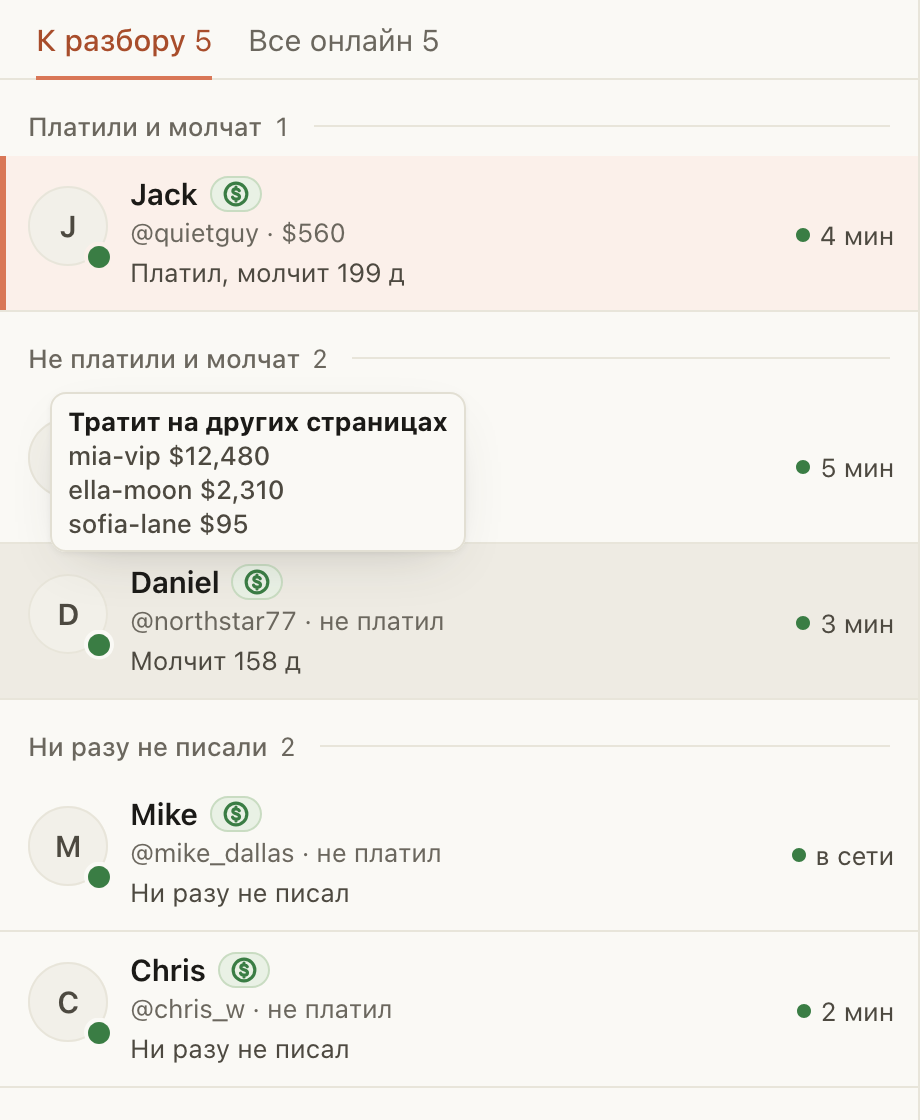
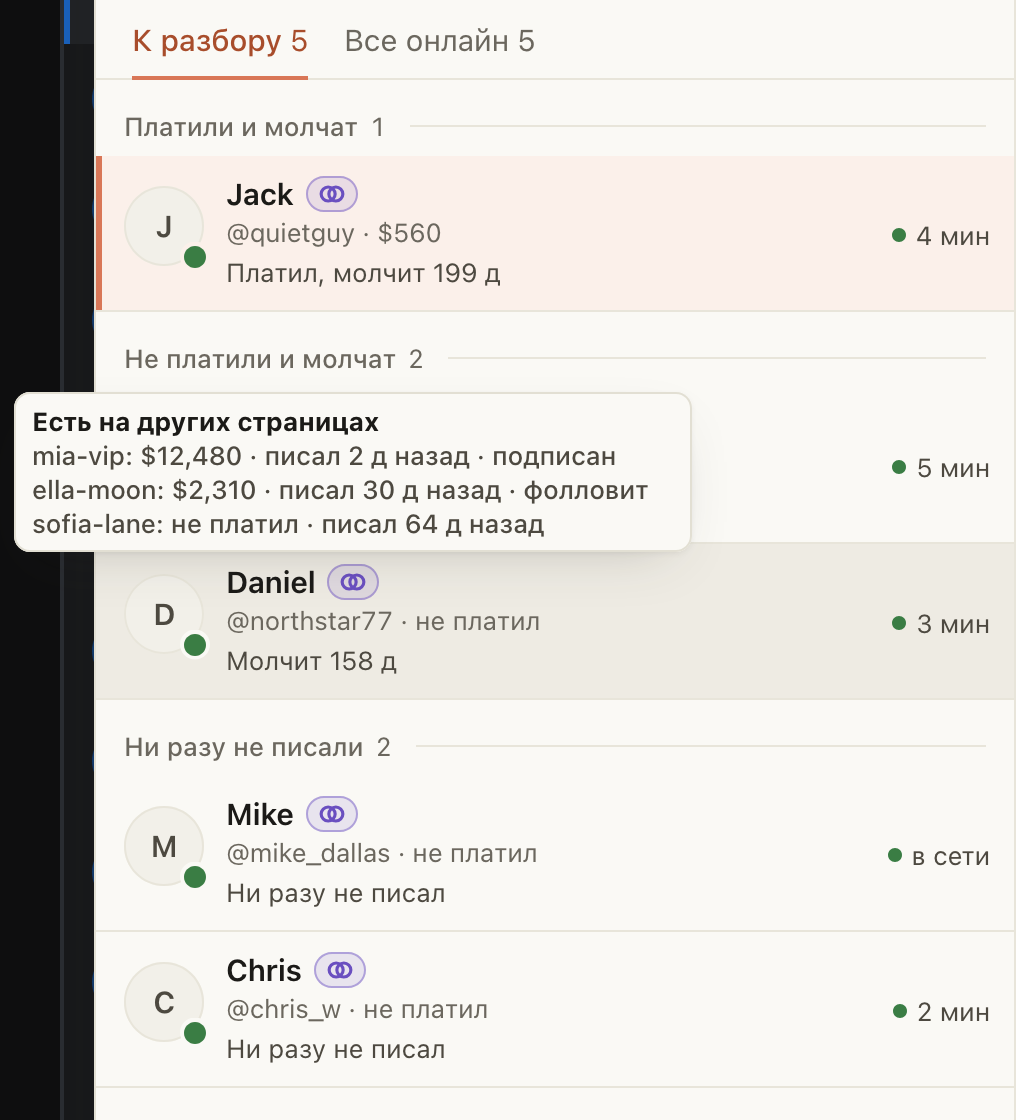
feat(online): one overlap mark on a fan, the tooltip tells each other page
The mark no longer stands for money only: two overlapping circles beside the name for a fan who paid on another page of
the agency or wrote there himself within 90 days (hub `otherPages`). The tooltip and the header's card give each page:
the sum, when he wrote, whether he subscribes or follows. Multi-line hints go up to 340 px, so such a line stays whole.

diff --git a/packages/testing/e2e/see/scenarios/other-pages.see.ts b/packages/testing/e2e/see/scenarios/other-pages.see.ts
@@ -1,6 +1,6 @@
-// What a fan spends on other pages of the agency (hub `otherPagesSpend`), a green coin beside the name: «Онлайн» on both
-// sites, «Новые» on ChatSpace (Fansly's «Новые» are a pass over Fansly's own API, no hub answer carries it), and Fansly's
-// chat header with its card. One page, several in the tooltip, a long name; light and dark.
+// A fan who is on other pages of the agency too (hub `otherPages`), one mark beside the name: «Онлайн» on both sites,
+// «Новые» on ChatSpace (Fansly's «Новые» are a pass over Fansly's own API, no hub answer carries it), and Fansly's chat
+// header with its card. Money, a word with no money, several pages in the tooltip, a long name; light and dark.
 
 import { $, browser } from '@wdio/globals';
 
@@ -9,10 +9,12 @@ import { callFansly } from '../../support/fansly-stand';
 import { STAND_IDS } from '../../support/stand';
 import { around, scenario, type Box, type See } from '../kit';
 
-const ONE = [{ pageLabel: 'mia-vip', grossMills: 1_653_000 }];
-const TWO = [{ pageLabel: 'ella-moon', grossMills: 412_500 }, { pageLabel: 'mia-vip', grossMills: 87_000 }];
-const THREE = [{ pageLabel: 'mia-vip', grossMills: 12_480_000 }, { pageLabel: 'ella-moon', grossMills: 2_310_000 }, { pageLabel: 'sofia-lane', grossMills: 95_000 }];
-const LONG = [{ pageLabel: 'model-three-fansly', grossMills: 12_480_000 }, { pageLabel: 'ella-moon', grossMills: 95_000 }];
+const wrote = (days: number): string => new Date(Date.now() - days * 86_400_000).toISOString();
+const ONE = [{ pageLabel: 'mia-vip', grossMills: 1_653_000, lastFanMessageAt: wrote(5), relation: 'subscriber' as const }];
+const TALKS = [{ pageLabel: 'ella-moon', grossMills: 0, lastFanMessageAt: wrote(12), relation: 'follower' as const }];
+const TWO = [{ pageLabel: 'ella-moon', grossMills: 412_500, lastFanMessageAt: null, relation: null }, { pageLabel: 'mia-vip', grossMills: 87_000, lastFanMessageAt: wrote(40), relation: 'follower' as const }];
+const THREE = [{ pageLabel: 'mia-vip', grossMills: 12_480_000, lastFanMessageAt: wrote(2), relation: 'subscriber' as const }, { pageLabel: 'ella-moon', grossMills: 2_310_000, lastFanMessageAt: wrote(30), relation: 'follower' as const }, { pageLabel: 'sofia-lane', grossMills: 0, lastFanMessageAt: wrote(64), relation: null }];
+const LONG = [{ pageLabel: 'model-three-fansly', grossMills: 12_480_000, lastFanMessageAt: wrote(9), relation: 'subscriber' as const }, { pageLabel: 'ella-moon', grossMills: 95_000, lastFanMessageAt: null, relation: null }];
 
 const SLOT = '[data-host="header-slot"][data-header-order="30"]';
 const HEADER = '.message-content-header-contact';
@@ -24,12 +26,12 @@ const standFan = (index: number): string => String(920_000_000_000_000_000n + Bi
 async function seedOnline(s: See): Promise<void> {
   const ids = s.site === 'fansly' ? [0, 9, 3, 5, 8].map(standFan) : [STAND_IDS.fans.a2, STAND_IDS.fans.a5, STAND_IDS.fans.a6, STAND_IDS.fans.a7, STAND_IDS.fans.a3];
   const fans = [
-    { username: 'mike_dallas', displayName: 'Mike', otherPagesSpend: ONE, lifetimeGrossMills: 0, reason: 'never_wrote', act: 'template_b' },
+    { username: 'mike_dallas', displayName: 'Mike', otherPages: TALKS, lifetimeGrossMills: 0, reason: 'never_wrote', act: 'template_b' },
     s.showcase
-      ? { username: 'chris_w', displayName: 'Chris', otherPagesSpend: ONE, lifetimeGrossMills: 0, reason: 'never_wrote', act: 'template_b' }
-      : { username: 'the_very_long_handle_of_a_fan_2026', displayName: 'Christopher Alexander Montgomery the Third', otherPagesSpend: LONG, lifetimeGrossMills: 0, reason: 'never_wrote', act: 'template_b' },
-    { username: 'northstar77', displayName: 'Daniel', otherPagesSpend: THREE, lifetimeGrossMills: 0, reason: 'quiet', act: 'template_a', messageCount: 3 },
-    { username: 'quietguy', displayName: 'Jack', otherPagesSpend: TWO, lifetimeGrossMills: 560_000, reason: 'silent', act: 'ping', messageCount: 10 },
+      ? { username: 'chris_w', displayName: 'Chris', otherPages: ONE, lifetimeGrossMills: 0, reason: 'never_wrote', act: 'template_b' }
+      : { username: 'the_very_long_handle_of_a_fan_2026', displayName: 'Christopher Alexander Montgomery the Third', otherPages: LONG, lifetimeGrossMills: 0, reason: 'never_wrote', act: 'template_b' },
+    { username: 'northstar77', displayName: 'Daniel', otherPages: THREE, lifetimeGrossMills: 0, reason: 'quiet', act: 'template_a', messageCount: 3 },
+    { username: 'quietguy', displayName: 'Jack', otherPages: TWO, lifetimeGrossMills: 560_000, reason: 'silent', act: 'ping', messageCount: 10 },
     { username: 'sam_k', displayName: 'Sam', lifetimeGrossMills: 45_000, reason: 'quiet', act: 'template_a', messageCount: 3 },
   ];
   await s.hub.command({
@@ -80,7 +82,7 @@ async function shootTooltip(s: See, name: string): Promise<void> {
   await s.h.ours('modal', '[data-cg-other-pages="3"]').moveTo();
   await s.browser.pause(900);
   const list = await s.rect('modal', '.cg-nw__side');
-  await s.shot(name, list === null ? {} : { clip: { ...list, width: list.width + 120, height: Math.min(list.height, 640) } });
+  await s.shot(name, list === null ? {} : { clip: { ...list, x: list.x - 48, width: list.width + 168, height: Math.min(list.height, 640) } });
   await pointerAway(s);
 }
 
@@ -119,12 +121,13 @@ scenario(
 
     await openOnline(s);
     await shootList(s, 'online-rows-light');
-    // The note's picture (`--showcase`): the list, a coin's tooltip open.
+    // The note's picture (`--showcase`): the list, a mark's tooltip open.
     if (s.showcase) {
       await s.h.ours('modal', '[data-cg-other-pages="3"]').moveTo();
       await s.browser.pause(900);
       const list = await s.rect('modal', '.cg-nw__side');
-      if (list !== null) await s.shot('note', { clip: { ...list, height: Math.min(list.height, 560) }, file: 'other-pages-mark' });
+      // The bubble stands centred on the mark and reaches past the list's left edge.
+      if (list !== null) await s.shot('note', { clip: { ...list, x: list.x - 48, width: list.width + 48, height: Math.min(list.height, 560) }, file: 'other-pages-mark' });
       await pointerAway(s);
     }
     await shootTooltip(s, 'online-tooltip-light');
@@ -167,9 +170,9 @@ scenario(
     before: async ({ hub }) => {
       const { a2, a5, a6, a7 } = STAND_IDS.fans;
       await hub.command({ op: 'config', patch: { onlineStand: false } });
-      await hub.command({ op: 'audienceEvent', pageLabel: PAGE, fanRef: a2, username: 'mike_dallas', displayName: 'Mike', otherPagesSpend: ONE });
-      await hub.command({ op: 'audienceEvent', pageLabel: PAGE, fanRef: a5, username: 'the_very_long_handle_of_a_fan_2026', displayName: 'Christopher Alexander Montgomery the Third', otherPagesSpend: LONG });
-      await hub.command({ op: 'audienceEvent', pageLabel: PAGE, fanRef: a6, username: 'northstar77', displayName: 'Daniel', otherPagesSpend: THREE });
+      await hub.command({ op: 'audienceEvent', pageLabel: PAGE, fanRef: a2, username: 'mike_dallas', displayName: 'Mike', otherPages: TALKS });
+      await hub.command({ op: 'audienceEvent', pageLabel: PAGE, fanRef: a5, username: 'the_very_long_handle_of_a_fan_2026', displayName: 'Christopher Alexander Montgomery the Third', otherPages: LONG });
+      await hub.command({ op: 'audienceEvent', pageLabel: PAGE, fanRef: a6, username: 'northstar77', displayName: 'Daniel', otherPages: THREE });
       await hub.command({ op: 'audienceEvent', pageLabel: PAGE, fanRef: a7, username: 'sam_k', displayName: 'Sam' });
     },
     sites: ['chatspace', 'fansly'],

diff --git a/packages/testing/src/fake-hub/online.ts b/packages/testing/src/fake-hub/online.ts
@@ -27,7 +27,7 @@ import {
   type OnlineAttemptRequest,
   type OnlineAttemptResult,
   type OnlineItem,
-  type OtherPageSpend,
+  type OtherPage,
   type OnlineList,
   type OnlinePresenceRequest,
   type OnlinePresenceResult,
@@ -120,18 +120,19 @@ export interface OnlineFacts {
   readonly autoRenew: boolean | null;
   /** Messages of the primary chat, counted up to 10. */
   readonly messageCount: number;
-  /** What the fan paid on other pages (hub `otherPagesSpend`); absent — none. */
-  readonly otherPagesSpend?: readonly OtherPageSpend[];
+  /** The other pages where the fan paid or lately wrote (hub `otherPages`); absent: none. */
+  readonly otherPages?: readonly OtherPage[];
 }
 
 /**
- * The stand's fans who spend on other pages, by their place in a list (the hub's `otherPagesSpend`): one page, and
- * several, the biggest first. Invented pages.
+ * The stand's fans who are on other pages, by their place in a list (the hub's `otherPages`): one page, and several,
+ * the biggest money first. Invented pages.
  */
-export function standOtherPages(index: number): { readonly otherPagesSpend?: OtherPageSpend[] } {
+export function standOtherPages(index: number): { readonly otherPages?: OtherPage[] } {
   const [first, second] = SHOWCASE ? ['mia-vip', 'ella-moon'] : ['model-three-fansly', 'model-four'];
-  if (index === 1) return { otherPagesSpend: [{ pageLabel: first, grossMills: 1_653_000 }] };
-  if (index === 3) return { otherPagesSpend: [{ pageLabel: second, grossMills: 412_500 }, { pageLabel: first, grossMills: 87_000 }] };
+  const wrote = (days: number): string => new Date(Date.now() - days * 86_400_000).toISOString();
+  if (index === 1) return { otherPages: [{ pageLabel: first, grossMills: 1_653_000, lastFanMessageAt: wrote(5), relation: 'subscriber' }] };
+  if (index === 3) return { otherPages: [{ pageLabel: second, grossMills: 412_500, lastFanMessageAt: wrote(40), relation: 'follower' }, { pageLabel: first, grossMills: 0, lastFanMessageAt: wrote(12), relation: null }] };
   return {};
 }
 
@@ -159,7 +160,7 @@ export type OnlineSeed = { readonly fanRef: string; readonly seenAgoMs?: number;
 /** The keys a scenario's item may carry (the control op refuses any other). */
 export const ONLINE_SEED_KEYS: ReadonlySet<string> = new Set([
   'fanRef', 'seenAgoMs', 'onlineAgoMs', 'conversationRef', 'username', 'displayName', 'alias', 'greetingName', 'lifetimeGrossMills', 'last30dGrossMills', 'seenAt', 'onlineSince', 'seenSource',
-  'reason', 'reasonAt', 'act', 'aside', 'asideAt', 'asideBy', 'messageCount', 'lastFanMessageAt', 'lastPageMessageAt', 'subscription', 'otherPagesSpend',
+  'reason', 'reasonAt', 'act', 'aside', 'asideAt', 'asideBy', 'messageCount', 'lastFanMessageAt', 'lastPageMessageAt', 'subscription', 'otherPages',
 ]);
 
 /** Another chatter «в разговоре» with a fan: their names, the newest send (the fake's in-conversation). */
@@ -288,7 +289,7 @@ export function seedRow(page: FakePage, seed: OnlineSeed, now: number): OnlineRo
     endsAt: parsed(subscription.endsAt),
     autoRenew: subscription.autoRenew ?? null,
     messageCount: seed.messageCount ?? 0,
-    ...(seed.otherPagesSpend === undefined ? {} : { otherPagesSpend: seed.otherPagesSpend }),
+    ...(seed.otherPages === undefined ? {} : { otherPages: seed.otherPages }),
   };
   const fixed: OnlineFixed = {
     ...(seed.reason === undefined ? {} : { reason: seed.reason }),
@@ -402,7 +403,7 @@ export class OnlineModel {
       lastFanMessageAt: isoOrNull(facts.lastFanMessageAt),
       lastPageMessageAt: isoOrNull(facts.answeredAt),
       subscription: { isSubscriber: facts.isSubscriber, startedAt: isoOrNull(facts.startedAt), endsAt: isoOrNull(facts.endsAt), autoRenew: facts.autoRenew },
-      ...(facts.otherPagesSpend === undefined ? {} : { otherPagesSpend: [...facts.otherPagesSpend] }),
+      ...(facts.otherPages === undefined ? {} : { otherPages: [...facts.otherPages] }),
     };
   }
 

diff --git a/packages/ui/src/kit/components/OtherPages.tsx b/packages/ui/src/kit/components/OtherPages.tsx
@@ -1,19 +1,26 @@
-// What a fan spends on other pages of the agency (hub `otherPagesSpend`): a green coin beside the name, among the fan's
-// badges and in their shape, so a chatter does not greet him as a cold follower. The tooltip names the pages and the
-// sums, the biggest first. An attribute of a fan, never a warning.
+// A fan who is on other pages of the agency too (hub `otherPages`): where he paid or lately wrote himself. One mark, two
+// circles that overlap, among the fan's badges and in their shape, so a chatter does not greet him as a cold follower. The
+// tooltip tells each page: how much he paid, when he wrote, whether he subscribes. An attribute of a fan, never a warning.
 
 import { type JSX } from 'preact';
 
-import { type I18n, type OtherPageSpendVM } from '@cg/contracts/vm';
+import { type I18n, type OtherPageVM } from '@cg/contracts/vm';
 
 import { useI18n } from '../context';
 import { Icon } from './Icon';
 import { useTooltip } from './Tooltip';
 
-/** One page: «lora-2 $1,653». */
-export const otherPagesLine = (i18n: Pick<I18n, 'formatMoneyMills'>, page: OtherPageSpendVM): string => `${page.pageLabel} ${i18n.formatMoneyMills(page.grossMills)}`;
+/** One page: «lora-2: $1,653 · писал 5 д назад · подписан». */
+export function otherPagesLine(i18n: Pick<I18n, 't' | 'formatMoneyMills' | 'formatAge'>, page: OtherPageVM): string {
+  const facts = [
+    page.grossMills > 0 ? i18n.formatMoneyMills(page.grossMills) : i18n.t('online.row.notPaid'),
+    page.lastFanMessageAt === null ? null : i18n.t('otherPages.wrote', { age: i18n.formatAge(page.lastFanMessageAt) }),
+    page.relation === null ? null : i18n.t(page.relation === 'subscriber' ? 'otherPages.subscriber' : 'otherPages.follower'),
+  ].filter((fact): fact is string => fact !== null);
+  return `${page.pageLabel}: ${facts.join(' · ')}`;
+}
 
-export function OtherPagesMark({ pages }: { readonly pages: readonly OtherPageSpendVM[] | undefined }): JSX.Element | null {
+export function OtherPagesMark({ pages }: { readonly pages: readonly OtherPageVM[] | undefined }): JSX.Element | null {
   const i18n = useI18n();
   const shown = pages ?? [];
   const title = i18n.t('otherPages.title');
@@ -21,12 +28,15 @@ export function OtherPagesMark({ pages }: { readonly pages: readonly OtherPageSp
   if (shown.length === 0) return null;
   return (
     <span class="cg-fbadge is-other" role="img" aria-label={title} data-cg-other-pages={String(shown.length)} {...tip.props}>
-      <Icon name="coin" size={14} />
+      <Icon name="overlap" size={14} />
       {tip.description}
     </span>
   );
 }
 
 export const OTHER_PAGES_CSS = `
-.cg-fbadge.is-other { --cg-fbadge-ink: var(--cg-good-ink); --cg-fbadge-line: var(--cg-good-line); --cg-fbadge-bg: var(--cg-good-bg); }
+:host { --cg-other-ink: #6a4fc0; }
+:host([data-scheme="dark"]) { --cg-other-ink: #b6a4f0; }
+.cg-fbadge.is-other { --cg-fbadge-ink: var(--cg-other-ink); --cg-fbadge-line: rgb(106 79 192 / .45); --cg-fbadge-bg: rgb(106 79 192 / .12); }
+:host([data-scheme="dark"]) .cg-fbadge.is-other { --cg-fbadge-line: rgb(182 164 240 / .45); --cg-fbadge-bg: rgb(182 164 240 / .14); }
 `;

diff --git a/packages/ui/src/hosts/fansly/FanMarks.tsx b/packages/ui/src/hosts/fansly/FanMarks.tsx
@@ -1,6 +1,6 @@
 // The open fan's marks in Fansly's own chat header, after «Регистрация»: the agency's list the fan is in («💩 Бомж», the
-// list's own label), «⛔ Блоклист» when FANSLY BLOCKLIST has posts about the fan, and a green coin when he spends on
-// other pages (the sums in its card). In that row's size: the warnings in the warm and the red ink; nothing at all when
+// list's own label), «⛔ Блоклист» when FANSLY BLOCKLIST has posts about the fan, and two overlapping circles when he is on
+// other pages (each page in its card). In that row's size: the warnings in the warm and the red ink; nothing at all when
 // no mark applies. They disable nothing.
 //
 // Each mark explains itself in a card under it: on hover (after a short pause, kept while the pointer is over the mark
@@ -164,7 +164,7 @@ export function fanMarksSurface(client: FanMarksClient, texts: Readonly<Record<'
       <span class="cg-fm" ref={root} data-fan-marks={[shown.lists ? 'lists' : '', shown.blocklist ? 'blocklist' : '', shown.other ? 'other' : ''].filter(Boolean).join(' ')}>
         {view.lists === null ? null : mark('lists', view.lists.label)}
         {shown.blocklist ? mark('blocklist', copy.blocklist) : null}
-        {shown.other ? mark('other', <Icon name="coin" size={14} />, i18n.t('otherPages.title')) : null}
+        {shown.other ? mark('other', <Icon name="overlap" size={14} />, i18n.t('otherPages.title')) : null}
         {which === null ? null : (
           <div
             ref={card}
@@ -232,7 +232,7 @@ export function fanMarksSurface(client: FanMarksClient, texts: Readonly<Record<'
     .cg-fm__mark { all: unset; display: inline-flex; align-items: center; cursor: pointer; border-radius: 6px; font-weight: 500; }
     .cg-fm__mark--lists { color: var(--cg-amber-ink); }
     .cg-fm__mark--blocklist { color: var(--cg-bad-ink); }
-    .cg-fm__mark--other { color: var(--cg-good-ink); }
+    .cg-fm__mark--other { color: var(--cg-other-ink); }
     .cg-fm__label { display: inline-block; max-width: 160px; overflow: hidden; text-overflow: ellipsis; }
     .cg-fm__mark:hover .cg-fm__label, .cg-fm__mark[aria-expanded='true'] .cg-fm__label { text-decoration: underline; text-underline-offset: 2px; }
     .cg-fm__mark--other .cg-fm__label { display: inline-flex; }

diff --git a/packages/testing/src/fake-hub/data.ts b/packages/testing/src/fake-hub/data.ts
@@ -18,7 +18,7 @@ import {
   type AiUsageQuery,
   type AiUsageReport,
   type AudienceNewItem,
-  type OtherPageSpend,
+  type OtherPage,
   type AudienceNewPage,
   type AudienceNewQuery,
   type AutoLists,
@@ -988,7 +988,7 @@ export class DataModel {
    * `fanWrote` — the fan already wrote a message (one stored message of the fan's); `handSent` — a person greeted the
    * fan by hand in the site's composer (a send attribution of that moment).
    */
-  addAudienceEvent(page: FakePage, fanRef: string, kind: 'new' | 'returning', trial: boolean, now: number, fanWrote = false, handSent = false, named: { readonly username?: string; readonly displayName?: string; readonly otherPagesSpend?: readonly OtherPageSpend[] } = {}): string {
+  addAudienceEvent(page: FakePage, fanRef: string, kind: 'new' | 'returning', trial: boolean, now: number, fanWrote = false, handSent = false, named: { readonly username?: string; readonly displayName?: string; readonly otherPages?: readonly OtherPage[] } = {}): string {
     const events = this.audienceOf(page);
     const eventRef = `evt-${page.pageId}-${2000 + events.length}`;
     const { claim: _claim, ...seed } = SCENARIO_DATA.audienceItem(0);
@@ -1008,7 +1008,7 @@ export class DataModel {
         subscribedAtSource: 'notification',
         status: { isSubscriber: true, subscriptionStatus: 'active', endsAt: iso(now + 30 * DAY_MS), asOf: iso(now), source: 'webhook' },
         thread: fanWrote ? { lastMessageAt: iso(now), lastFanMessageAt: iso(now), lastModelMessageAt: null, storedMessageCount: 1, coverage: 'complete', backfillComplete: true } : null,
-        ...(named.otherPagesSpend === undefined ? {} : { otherPagesSpend: [...named.otherPagesSpend] }),
+        ...(named.otherPages === undefined ? {} : { otherPages: [...named.otherPages] }),
       },
     });
     if (handSent) {

diff --git a/packages/contracts/src/i18n/keys.ts b/packages/contracts/src/i18n/keys.ts
@@ -172,7 +172,7 @@ export const UI_TEXT_KEYS = [
   'preview.media.summaryPaid', 'preview.media.summaryPaidPreviews', 'send.buttonMedia', 'send.buttonMediaPaid', 'send.buttonMediaTooltip', 'send.reason.media', 'send.reason.pace',
   'send.button', 'send.buttonTooltip', 'send.openAndInsert', 'send.openAndInsertTooltip', 'send.openAndInsertWaiting', 'send.openAndInsertCancel',
   'send.unavailable', 'send.unavailableReason', 'send.queued', 'send.sending', 'send.accepted', 'send.sent', 'send.rejected', 'send.retry', 'send.retryTooltip',
-  'send.rejectedTail', 'send.uncertain', 'send.openToVerify', 'send.uncertainTail', 'send.uncertainRetryTooltip', 'send.heldStale', 'send.heldStaleTail', 'send.unverified', 'send.unverifiedTail', 'send.talking', 'talking.mark', 'talking.notice', 'talking.ok', 'otherPages.title', 'send.anyway', 'send.anywayTooltip', 'send.after',
+  'send.rejectedTail', 'send.uncertain', 'send.openToVerify', 'send.uncertainTail', 'send.uncertainRetryTooltip', 'send.heldStale', 'send.heldStaleTail', 'send.unverified', 'send.unverifiedTail', 'send.talking', 'talking.mark', 'talking.notice', 'talking.ok', 'otherPages.title', 'otherPages.wrote', 'otherPages.subscriber', 'otherPages.follower', 'send.anyway', 'send.anywayTooltip', 'send.after',
   'send.codeLine', 'send.reason.off', 'send.reason.host', 'send.reason.hostNotYet', 'send.reason.receipt', 'send.reason.activeChat',
   'send.reason.permission', 'send.reason.fan', 'send.reason.mimic', 'send.reason.translator', 'send.reason.freshness', 'send.reason.busy',
   'send.reason.queue', 'send.reason.part', 'send.reason.otherVariant', 'send.reason.guard',

diff --git a/packages/core/src/application/hosts/fansly/fan-marks.test.ts b/packages/core/src/application/hosts/fansly/fan-marks.test.ts
@@ -37,10 +37,12 @@ describe('[host:fansly] the fan marks of an answer', () => {
     });
   });
 
-  it('the money on other pages alone is a mark; a sum of zero or a page with no name is none', () => {
-    const otherPages = [{ pageLabel: 'mia-vip', grossMills: 1_653_000 }, { pageLabel: 'ella-moon', grossMills: 0 }, { pageLabel: ' ', grossMills: 5_000 }];
-    expect(fanMarksView({ lists: [], blocklist: [], otherPages }, null)).toEqual({ lists: null, posts: [], otherPages: [{ pageLabel: 'mia-vip', grossMills: 1_653_000 }] });
-    expect(fanMarksView({ lists: [], blocklist: [], otherPages: [{ pageLabel: 'ella-moon', grossMills: 0 }] }, null)).toBe(FAN_MARKS_NONE);
+  it('being on another page alone is a mark, money or none; a page with no name is none', () => {
+    const paid = { pageLabel: 'mia-vip', grossMills: 1_653_000, lastFanMessageAt: null, relation: 'subscriber' as const };
+    const talks = { pageLabel: 'ella-moon', grossMills: 0, lastFanMessageAt: '2026-10-20T10:00:00.000Z', relation: null };
+    const otherPages = [paid, talks, { pageLabel: ' ', grossMills: 5_000, lastFanMessageAt: null, relation: null }];
+    expect(fanMarksView({ lists: [], blocklist: [], otherPages }, null)).toEqual({ lists: null, posts: [], otherPages: [paid, talks] });
+    expect(fanMarksView({ lists: [], blocklist: [], otherPages: [{ ...talks, pageLabel: ' ' }] }, null)).toBe(FAN_MARKS_NONE);
   });
 
   it('a list named with the team note after a dash is the short name, one group with the same list elsewhere', () => {

diff --git a/packages/core/src/domain/fans/other-pages.ts b/packages/core/src/domain/fans/other-pages.ts
@@ -1,10 +1,11 @@
-// A fan's money on other pages of the agency as a row or a mark takes it from the hub's `otherPagesSpend`: the hub's
-// order (the biggest first), a named page with a sum above zero. Nothing left: no field at all, so no mark.
+// A fan on other pages of the agency as a row or a mark takes it from the hub's `otherPages`: the hub's choice and order,
+// a page with a name. Nothing left: no field at all, so no mark.
 
-import { type OtherPageSpend } from '@cg/contracts/hub';
-import { type OtherPageSpendVM } from '@cg/contracts/vm';
+import { type OtherPage } from '@cg/contracts/hub';
+import { type OtherPageVM } from '@cg/contracts/vm';
 
-export function otherPagesOf(spend: readonly OtherPageSpend[] | undefined): { readonly otherPages?: readonly OtherPageSpendVM[] } {
-  const shown = (spend ?? []).filter((page) => page.grossMills > 0 && page.pageLabel.trim() !== '');
-  return shown.length === 0 ? {} : { otherPages: shown.map((page) => ({ pageLabel: page.pageLabel.trim(), grossMills: page.grossMills })) };
+export function otherPagesOf(pages: readonly OtherPage[] | undefined): { readonly otherPages?: readonly OtherPageVM[] } {
+  const shown = (pages ?? []).filter((page) => page.pageLabel.trim() !== '');
+  if (shown.length === 0) return {};
+  return { otherPages: shown.map((page) => ({ pageLabel: page.pageLabel.trim(), grossMills: page.grossMills, lastFanMessageAt: page.lastFanMessageAt, relation: page.relation })) };
 }

diff --git a/packages/contracts/src/hub/wire.ts b/packages/contracts/src/hub/wire.ts
@@ -15,14 +15,20 @@
 import * as z from 'zod/mini';
 
 import { type HostKind } from '../ids';
-import { NativeIdSchema, boundedText, type NativeId } from '../primitives';
+import { IsoTimestampSchema, NativeIdSchema, boundedText, type NativeId } from '../primitives';
 
 /**
- * What a fan paid on one other page of the asked page's platform, any model (hub `otherPagesSpend`, on «Онлайн», «Новые»
- * and the fan's marks): the page's label and the sum, the biggest first, only sums above zero. Absent or empty: none.
+ * A fan on one other page of the asked page's platform, any model (hub `otherPages`, on «Онлайн», «Новые» and the fan's
+ * marks), where he paid or wrote himself within 90 days: the sum (0: nothing), when he last wrote and whether he subscribes
+ * or follows, the biggest money first. Absent or empty: none.
  */
-export const OtherPageSpendSchema = z.object({ pageLabel: z.string(), grossMills: z.number() });
-export type OtherPageSpend = z.infer<typeof OtherPageSpendSchema>;
+export const OtherPageSchema = z.object({
+  pageLabel: z.string(),
+  grossMills: z.number(),
+  lastFanMessageAt: z.nullable(IsoTimestampSchema),
+  relation: z.nullable(z.enum(['subscriber', 'follower'])),
+});
+export type OtherPage = z.infer<typeof OtherPageSchema>;
 
 /** Hub local business date `YYYY-MM-DD` (hub `businessDate`): a real calendar date. */
 export const BUSINESS_DATE_PATTERN = /^(\d{4})-(\d{2})-(\d{2})$/;

diff --git a/packages/testing/src/fake-hub/types.ts b/packages/testing/src/fake-hub/types.ts
@@ -3,7 +3,7 @@
 // in-process and over the loopback control endpoint) and the request journal.
 // Everything here is JSON-serialisable: the loopback control API carries it.
 
-import type { ClientFeatureFlag, HubAiFeature, HubErrorBody, HubFrame, HubRouteKey, OnlineAttemptRequest, OtherPageSpend } from '@cg/contracts';
+import type { ClientFeatureFlag, HubAiFeature, HubErrorBody, HubFrame, HubRouteKey, OnlineAttemptRequest, OtherPage } from '@cg/contracts';
 import type { FakeFeedRecord, FakeFeedTransaction } from './onlyfans-feed';
 
 import type { HttpExchange, HttpScenario, SseScenario, SseStep } from '../scenarios/hub/types';
@@ -247,8 +247,8 @@ export type FakeHubCommand =
       /** The fan's handle and name as the platform shows them (default: a synthetic handle, no name). */
       readonly username?: string;
       readonly displayName?: string;
-      /** What the fan paid on other pages (hub `otherPagesSpend`). */
-      readonly otherPagesSpend?: readonly OtherPageSpend[];
+      /** The other pages where the fan paid or lately wrote (hub `otherPages`). */
+      readonly otherPages?: readonly OtherPage[];
     }
   /**
    * The first rows of every page's Spenders board are these fans, in this order — fans the e2e's stand has, so

diff --git a/packages/core/src/domain/newcomers/rows.ts b/packages/core/src/domain/newcomers/rows.ts
@@ -10,7 +10,7 @@
 
 import { type AudienceNewItem, type ClaimState, type ClaimSummary } from '@cg/contracts/hub';
 import { type IsoTimestamp } from '@cg/contracts/primitives';
-import { type GreetingFilter, type GreetingStatusVM, type NewcomerKind, type NewcomersTab, type OtherPageSpendVM } from '@cg/contracts/vm';
+import { type GreetingFilter, type GreetingStatusVM, type NewcomerKind, type NewcomersTab, type OtherPageVM } from '@cg/contracts/vm';
 
 import { otherPagesOf } from '../fans/other-pages';
 
@@ -35,7 +35,7 @@ export interface NewcomerRow {
   readonly personalSendAt: IsoTimestamp | null;
   readonly claim: ClaimSummary;
   /** The fan's money on other pages, the biggest first; absent — none. */
-  readonly otherPages?: readonly OtherPageSpendVM[];
+  readonly otherPages?: readonly OtherPageVM[];
   readonly haystack: string;
 }
 
@@ -81,7 +81,7 @@ export function newcomerRow(item: AudienceNewItem): NewcomerRow {
           },
     personalSendAt: item.lastPersonalSendAt ?? null,
     claim: item.claim,
-    ...otherPagesOf(item.otherPagesSpend),
+    ...otherPagesOf(item.otherPages),
     haystack: [item.displayName, item.username, item.fanRef]
       .filter((part) => part !== null)
       .join('\n')

diff --git a/packages/contracts/src/hub/newcomers.ts b/packages/contracts/src/hub/newcomers.ts
@@ -13,7 +13,7 @@ import * as z from 'zod/mini';
 import { PART_LIMITS } from '../limits';
 import { CountSchema, GenerationRefSchema, IsoTimestampSchema, MoneyMillsSchema, NativeIdSchema, OpenTokenSchema, UuidSchema } from '../primitives';
 import { SendPurposeSchema } from '../send';
-import { HubCursorSchema, OtherPageSpendSchema, PageLabelSchema } from './wire';
+import { HubCursorSchema, OtherPageSchema, PageLabelSchema } from './wire';
 
 // ── Claim and custody ──────────────────────────────────────────────────────
 
@@ -273,7 +273,7 @@ export const AudienceNewItemSchema = z.object({
   lastPersonalSendAt: z.optional(z.nullable(IsoTimestampSchema)),
   claim: ClaimSummarySchema,
   /** The fan's money on other pages of the platform; absent or empty — none. */
-  otherPagesSpend: z.optional(z.array(OtherPageSpendSchema)),
+  otherPages: z.optional(z.array(OtherPageSchema)),
 });
 export type AudienceNewItem = z.infer<typeof AudienceNewItemSchema>;
 
